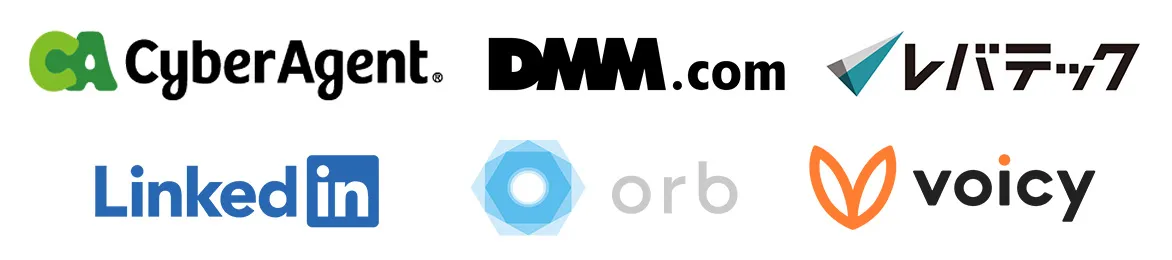
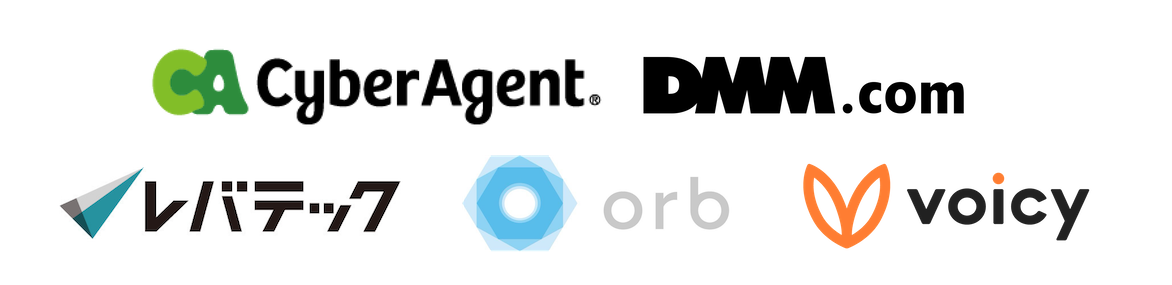
feat: update text

diff --git a/pingcap-jp/css/templates/tidb-user-day.scss b/pingcap-jp/css/templates/tidb-user-day.scss
@@ -5,3 +5,13 @@
     }
   }
 }
+.p-timetable-item_bottom {
+  @include media-min($medium) {
+    display: flex;
+    gap: 3.2rem;
+    p{
+      flex: 1;
+      margin-top: 0;
+    }
+  }
+}

diff --git a/pingcap-jp/templates/page-tidb-user-day.php b/pingcap-jp/templates/page-tidb-user-day.php
@@ -41,7 +41,7 @@ get_header();
                                 </div>
                                 <div class="p-outline_right">
                                     <h3 class="a-heading ">
-                                        <span class="a-heading_text-one  tw-text-[2rem] md:tw-text-[2.4rem] tw-font-bold tw-leading-snug">NewSQLデータベースTiDBの最新動向やベストプラクティスを学ぶことができるイベントです。ぜひご参加ください。</span>
+                                        <span class="a-heading_text-one  tw-text-[2rem] md:tw-text-[2.4rem] tw-font-bold tw-leading-snug">TiDBはこう使われている！</span>
                                     </h3>
                                     <p class="tw-text-[1.6rem] tw-mt-[1rem]">TiDB User Day (TiUD) は、TiDBユーザーが集結し、データベースエンジニアが最先端のアイディア、ベストプラクティス、テクニックを学び、TiDBの活用術を磨く、TiDBユーザーのための祭典です。ユーザー体験を起点とし、NewSQLデータベースのTiDBがどのように使用されているのか、ユーザーの生の声を通して、最新動向やインスピレーションを得ることができるNewSQLデータベースの日本最大級のイベントです。</p>
                                 </div>
@@ -156,6 +156,12 @@ get_header();
                                             HTAP
                                         </label>
                                     </li>
+                                    <li>
+                                        <input type="checkbox" name="timetable" id="keynote" value="keynote" class="p-timetable-sort_checkbox">
+                                        <label for="keynote">
+                                            基調講演
+                                        </label>
+                                    </li>
                                 </ul>
                             </div>
                         </div>
@@ -173,6 +179,11 @@ get_header();
                                                 <p class="p-timetable-item_date">
                                                     10:00 - 10:15
                                                 </p>
+                                                <ul class="p-timetable-item_tags tw-mt-2">
+                                                    <li data-tags="oltp">
+                                                        <span>基調講演</span>
+                                                    </li>
+                                                </ul>
                                             </div>
                                             <div class="p-timetable-item_right">
                                                 <h4 class="a-heading ">
@@ -203,10 +214,18 @@ get_header();
                                                 <p class="p-timetable-item_date">
                                                     10:15 - 10:45
                                                 </p>
+                                                <ul class="p-timetable-item_tags tw-mt-2">
+                                                    <li data-tags="keynote">
+                                                        <span>基調講演</span>
+                                                    </li>
+                                                    <li data-tags="data">
+                                                        <span>講演資料</span>
+                                                    </li>
+                                                </ul>
                                             </div>
                                             <div class="p-timetable-item_right">
                                                 <h4 class="a-heading ">
-                                                    <span class="a-heading_text-one  tw-text-[2rem] tw-font-bold tw-leading-snug">Beyond the Scalability：Subtitle: PingCAP is dedicated to building TiDB, an Open Source, Cloud Native, distributed, MySQL compatible database</span>
+                                                    <span class="a-heading_text-one  tw-text-[2rem] tw-font-bold tw-leading-snug">Beyond the Scalability：PingCAP is dedicated to building TiDB, an Open Source, Cloud Native, distributed, MySQL compatible database [同時通訳]</span>
                                                 </h4>
                                                 <div class="tw-mt-[1.2rem] tw-grid tw-grid-cols-1 tw-gap-[1rem]">
                                                     <div class="p-timetable-item_speaker">
@@ -255,7 +274,7 @@ get_header();
                                             </div>
                                             <div class="p-timetable-item_right">
                                                 <h4 class="a-heading ">
-                                                    <span class="a-heading_text-one  tw-text-[2rem] tw-font-bold tw-leading-snug">Coming soon</span>
+                                                    <span class="a-heading_text-one  tw-text-[2rem] tw-font-bold tw-leading-snug">Learnings from Experimenting with TiDB at Scale</span>
                                                 </h4>
                                                 <div class="tw-mt-[1.2rem] tw-grid tw-grid-cols-1 tw-gap-[1rem]">
                                                     <div class="p-timetable-item_speaker">
@@ -269,7 +288,7 @@ get_header();
                                                         </div>
                                                         <div class="p-timetable-item_speaker-content">
                                                             <h5 class="tw-text-[1.6rem] tw-font-bold tw-leading-snug">LinkedIn Corporation</h5>
-                                                            <p class="tw-text-[1.4rem] md:tw-text-[1.6rem] tw-mt-1">SW Engineering Director Ashish Singhai</p>
+                                                            <p class="tw-text-[1.4rem] md:tw-text-[1.6rem] tw-mt-1">SW Engineering Director Ashish Singhai 氏</p>
                                                         </div>
                                                     </div>
                                                 </div>
@@ -285,6 +304,9 @@ get_header();
                                                     </a>
                                                 </li>
                                             </ul>
+                                            <p>Our goal is to run TiDB at a very large scale. Before we can do that, we need to learn about the system behavior, bottlenecks, and sensitivity to parameters. To this end, we have been experimenting with TiDB in multiple ways - micro-benchmarking, simulated production-like workloads, chaos, and stress. We will discuss what we have learned from our experiments.<br>
+                                                LinkedInの目標は大規模なTiDBを稼働させることです。その前に、システムの挙動、ボトルネック、パラメータ変更への影響度を知る必要があります。そのために、マイクロベンチマーク、本番環境と同様のワークロードのシミュレーション、カオス、ストレスなど、さまざまな方法でTiDBの検証を行ってきました。このセッションでは、これらの検証から得られた知見について解説します。
+                                            </p>
                                         </div>
                                     </div>
                                     <div class="p-timetable-item is-rest">
@@ -315,21 +337,21 @@ get_header();
                                             </div>
                                             <div class="p-timetable-item_right">
                                                 <h4 class="a-heading ">
-                                                    <span class="a-heading_text-one  tw-text-[2rem] tw-font-bold tw-leading-snug">Coming soon</span>
+                                                    <span class="a-heading_text-one  tw-text-[2rem] tw-font-bold tw-leading-snug">How Pinterest Leverages TiDB to Deprecate HBase [同時通訳]</span>
                                                 </h4>
                                                 <div class="tw-mt-[1.2rem] tw-grid tw-grid-cols-1 tw-gap-[1rem]">
                                                     <div class="p-timetable-item_speaker">
                                                         <div class="p-timetable-item_speaker-visual">
                                                             <div class="a-image is-fit">
                                                                 <picture>
-                                                                    <source type="image/webp" srcset="<?php echo esc_url(get_template_directory_uri()); ?>/tidb-user-day/assets/img/speaker_orb.webp" width="120" height="120">
-                                                                    <img src="<?php echo esc_url(get_template_directory_uri()); ?>/tidb-user-day/assets/img/speaker_orb.png" class="" width="120" height="120" alt="Coming soon" loading="lazy" decoding="async">
+                                                                    <source type="image/webp" srcset="<?php echo esc_url(get_template_directory_uri()); ?>/tidb-user-day/assets/img/speaker_pinterest.webp" width="120" height="120">
+                                                                    <img src="<?php echo esc_url(get_template_directory_uri()); ?>/tidb-user-day/assets/img/speaker_pinterest.png" class="" width="120" height="120" alt="Coming soon" loading="lazy" decoding="async">
                                                                 </picture>
                                                             </div>
                                                         </div>
                                                         <div class="p-timetable-item_speaker-content">
-                                                            <h5 class="tw-text-[1.6rem] tw-font-bold tw-leading-snug">Pinterest, Inc.</h5>
-                                                            <p class="tw-text-[1.4rem] md:tw-text-[1.6rem] tw-mt-1">Coming soon</p>
+                                                            <h5 class="tw-text-[1.6rem] tw-font-bold tw-leading-snug">Ex-Pinterest, Inc.</h5>
+                                                            <p class="tw-text-[1.4rem] md:tw-text-[1.6rem] tw-mt-1">VP Data Engineering　Dr. Dave Burgess 氏</p>
                                                         </div>
                                                     </div>
                                                 </div>
@@ -345,6 +367,10 @@ get_header();
                                                     </a>
                                                 </li>
                                             </ul>
+                                            <p>Pinterest was one of the largest HBase users with over 50 clusters that handled all use cases including ad recommendations. However, as the company serves a global user base of over 500 million, this NoSQL database became a bottleneck to growth due to its high maintenance costs and lack of functionality to support their business services.
+                                                In this session, it's explained why the company chose TiDB to replace HBase as its new unified operational data store, resulting in an 80% reduction in infrastructure costs, 3-5x p99 latency reduction, and the ability to achieve read after write consistency.
+                                                [和訳] Pinterestは、広告レコメンデーションを含むすべてのユースケースを処理する50以上のクラスタを持つ最大級のHBaseユーザーでした。しかし、5億人を超えるグローバルユーザーを抱える同社にとって、このNoSQLデータベースはメンテナンスコストが高く、サービスを継続的にサポートする機能が不足していたため、成長のボトルネックとなっていました。 本セッションでは、同社がHBaseに代わる新たな統合運用データストアとしてTiDBを選択し、インフラコストを80％削減、p99レイテンシを3～5倍削減、書き込み後の読み取り一整合性を実現した理由を紹介します。
+                                            </p>
                                         </div>
                                     </div>
                                     <div class="p-timetable-item is-rest">
@@ -400,7 +426,7 @@ get_header();
                                                         </div>
                                                         <div class="p-timetable-item_speaker-content">
                                                             <h5 class="tw-text-[1.6rem] tw-font-bold tw-leading-snug">レバテック株式会社</h5>
-                                                            <p class="tw-text-[1.4rem] md:tw-text-[1.6rem] tw-mt-1">CTO室 テックリード 河村 勇樹</p>
+                                                            <p class="tw-text-[1.4rem] md:tw-text-[1.6rem] tw-mt-1">CTO室 テックリード 河村 勇樹 氏</p>
                                                         </div>
                                                     </div>
                                                     <div class="p-timetable-item_speaker">
@@ -413,8 +439,8 @@ get_header();
                                                             </div>
                                                         </div>
                                                         <div class="p-timetable-item_speaker-content">
-                                                            <h5 class="tw-text-[1.6rem] tw-font-bold tw-leading-snug">レバテック株式会社</h5>
-                                                            <p class="tw-text-[1.4rem] md:tw-text-[1.6rem] tw-mt-1">レバテック開発部 中下 拓也</p>
+                                                            <h5 class="tw-text-[1.6rem] tw-font-bold tw-leading-snug">レバレジーズ株式会社</h5>
+                                                            <p class="tw-text-[1.4rem] md:tw-text-[1.6rem] tw-mt-1">レバテック開発部 中下 拓也 氏</p>
                                                         </div>
                                                     </div>
                                                 </div>
@@ -485,7 +511,7 @@ get_header();
                                                         </div>
                                                         <div class="p-timetable-item_speaker-content">
                                                             <h5 class="tw-text-[1.6rem] tw-font-bold tw-leading-snug">株式会社サイバーエージェント</h5>
-                                                            <p class="tw-text-[1.4rem] md:tw-text-[1.6rem] tw-mt-1">グループIT推進本部 データプロダクトユニット 渡邉 敬之</p>
+                                                            <p class="tw-text-[1.4rem] md:tw-text-[1.6rem] tw-mt-1">グループIT推進本部 データプロダクトユニット 渡邉 敬之 氏</p>
                                                         </div>
                                                     </div>
                                                 </div>
@@ -555,8 +581,8 @@ get_header();
                                                             </div>
                                                         </div>
                                                         <div class="p-timetable-item_speaker-content">
-                                                            <h5 class="tw-text-[1.6rem] tw-font-bold tw-leading-snug">株式会社Voicy</h5>
-                                                            <p class="tw-text-[1.4rem] md:tw-text-[1.6rem] tw-mt-1">エンジニアDivision エンジニア部門責任者 山元 亮典</p>
+                                                            <h5 class="tw-text-[1.6rem] tw-font-bold tw-leading-snug">株式会社 Voicy</h5>
+                                                            <p class="tw-text-[1.4rem] md:tw-text-[1.6rem] tw-mt-1">エンジニアDivision エンジニア部門責任者 山元 亮典 氏</p>
                                                         </div>
                                                     </div>
                                                 </div>
@@ -606,7 +632,7 @@ get_header();
                                                 </h4>
                                                 <div class="p-timetable-item_text js-text-more">
                                                     <div class="p-timetable-item_text-inner">
-                                                        <p>株式会社Orbが、決済に特化した分散台帳技術を提供しており、デジタル地域通貨の基盤として累計100を超える自治体で採用 (年間決済額数百億円)。「Orb DLT」のCassandraからTiDBへの移行によりシステムの高度化を実現したプロセスを紹介します。移行の背景と目的、技術的な挑戦と解決策、移行後の運用結果について詳しく説明します。</p>
+                                                        <p>株式会社Orbは決済に特化した分散台帳技術を提供しており、デジタル地域通貨の基盤として累計100を超える自治体で採用 (年間決済額数百億円)。「Orb DLT」のCassandraからTiDBへの移行によりシステムの高度化を実現したプロセスを紹介します。移行の背景と目的、技術的な挑戦と解決策、移行後の運用結果について詳しく説明します。</p>
                                                     </div>
                                                     <div class="tw-mt-2 tw-flex tw-justify-end">
                                                         <button type="button" class="p-timetable-item_text-button js-text-more-button">
@@ -627,7 +653,7 @@ get_header();
                                                         </div>
                                                         <div class="p-timetable-item_speaker-content">
                                                             <h5 class="tw-text-[1.6rem] tw-font-bold tw-leading-snug">株式会社Orb</h5>
-                                                            <p class="tw-text-[1.4rem] md:tw-text-[1.6rem] tw-mt-1">CTO 岸本 吉勝</p>
+                                                            <p class="tw-text-[1.4rem] md:tw-text-[1.6rem] tw-mt-1">CTO 岸本 吉勝 氏</p>
                                                         </div>
                                                     </div>
                                                 </div>
@@ -698,7 +724,7 @@ get_header();
                                                         </div>
                                                         <div class="p-timetable-item_speaker-content">
                                                             <h5 class="tw-text-[1.6rem] tw-font-bold tw-leading-snug">合同会社DMM.com</h5>
-                                                            <p class="tw-text-[1.4rem] md:tw-text-[1.6rem] tw-mt-1">プラットフォーム開発本部 アーキテクト pospome</p>
+                                                            <p class="tw-text-[1.4rem] md:tw-text-[1.6rem] tw-mt-1">プラットフォーム開発本部 アーキテクト pospome 氏</p>
                                                         </div>
                                                     </div>
                                                 </div>
@@ -766,9 +792,9 @@ get_header();
                         <div class="a-image ">
                             <picture>
                                 <source media="(min-width: 751px)" type="image/webp" srcset="<?php echo esc_url(get_template_directory_uri()); ?>/tidb-user-day/assets/img/partner.webp" width="1172" height="311">
-                                <source media="(max-width: 750px)" type="image/webp" srcset="<?php echo esc_url(get_template_directory_uri()); ?>/tidb-user-day/assets/img/partner_sp.webp" width="716" height="324">
+                                <source media="(max-width: 750px)" type="image/webp" srcset="<?php echo esc_url(get_template_directory_uri()); ?>/tidb-user-day/assets/img/partner_sp.webp" width="716" height="287">
                                 <source media="(min-width: 751px)" type="image/png" srcset="<?php echo esc_url(get_template_directory_uri()); ?>/tidb-user-day/assets/img/partner.png" width="1172" height="311">
-                                <source media="(max-width: 750px)" type="image/png" srcset="<?php echo esc_url(get_template_directory_uri()); ?>/tidb-user-day/assets/img/partner_sp.png" width="716" height="324">
+                                <source media="(max-width: 750px)" type="image/png" srcset="<?php echo esc_url(get_template_directory_uri()); ?>/tidb-user-day/assets/img/partner_sp.png" width="716" height="287">
                                 <img src="<?php echo esc_url(get_template_directory_uri()); ?>/tidb-user-day/assets/img/partner.png" class="" width="1172" height="311" alt="登壇企業" loading="lazy" decoding="async">
                             </picture>
                         </div>
@@ -796,11 +822,11 @@ get_header();
                             <div class="tw-flex tw-justify-center tw-mt-3">
                                 <div class="a-image ">
                                     <picture>
-                                        <source media="(min-width: 751px)" type="image/webp" srcset="<?php echo esc_url(get_template_directory_uri()); ?>/tidb-user-day/assets/img/campaign_item.webp" width="1172" height="420">
-                                        <source media="(max-width: 750px)" type="image/webp" srcset="<?php echo esc_url(get_template_directory_uri()); ?>/tidb-user-day/assets/img/campaign_item_sp.webp" width="716" height="2036">
-                                        <source media="(min-width: 751px)" type="image/png" srcset="<?php echo esc_url(get_template_directory_uri()); ?>/tidb-user-day/assets/img/campaign_item.png" width="1172" height="420">
-                                        <source media="(max-width: 750px)" type="image/png" srcset="<?php echo esc_url(get_template_directory_uri()); ?>/tidb-user-day/assets/img/campaign_item_sp.png" width="716" height="2036">
-                                        <img src="<?php echo esc_url(get_template_directory_uri()); ?>/tidb-user-day/assets/img/campaign_item.png" class="" width="1172" height="420" alt="登録キャンペーン" loading="lazy" decoding="async">
+                                        <source media="(min-width: 751px)" type="image/webp" srcset="<?php echo esc_url(get_template_directory_uri()); ?>/tidb-user-day/assets/img/campaign_item.webp" width="1172" height="502">
+                                        <source media="(max-width: 750px)" type="image/webp" srcset="<?php echo esc_url(get_template_directory_uri()); ?>/tidb-user-day/assets/img/campaign_item_sp.webp" width="716" height="2218">
+                                        <source media="(min-width: 751px)" type="image/png" srcset="<?php echo esc_url(get_template_directory_uri()); ?>/tidb-user-day/assets/img/campaign_item.jpg" width="1172" height="502">
+                                        <source media="(max-width: 750px)" type="image/png" srcset="<?php echo esc_url(get_template_directory_uri()); ?>/tidb-user-day/assets/img/campaign_item_sp.png" width="716" height="2218">
+                                        <img src="<?php echo esc_url(get_template_directory_uri()); ?>/tidb-user-day/assets/img/campaign_item.jpg" class="" width="1172" height="502" alt="登録キャンペーン" loading="lazy" decoding="async">
                                     </picture>
                                 </div>
                             </div>
